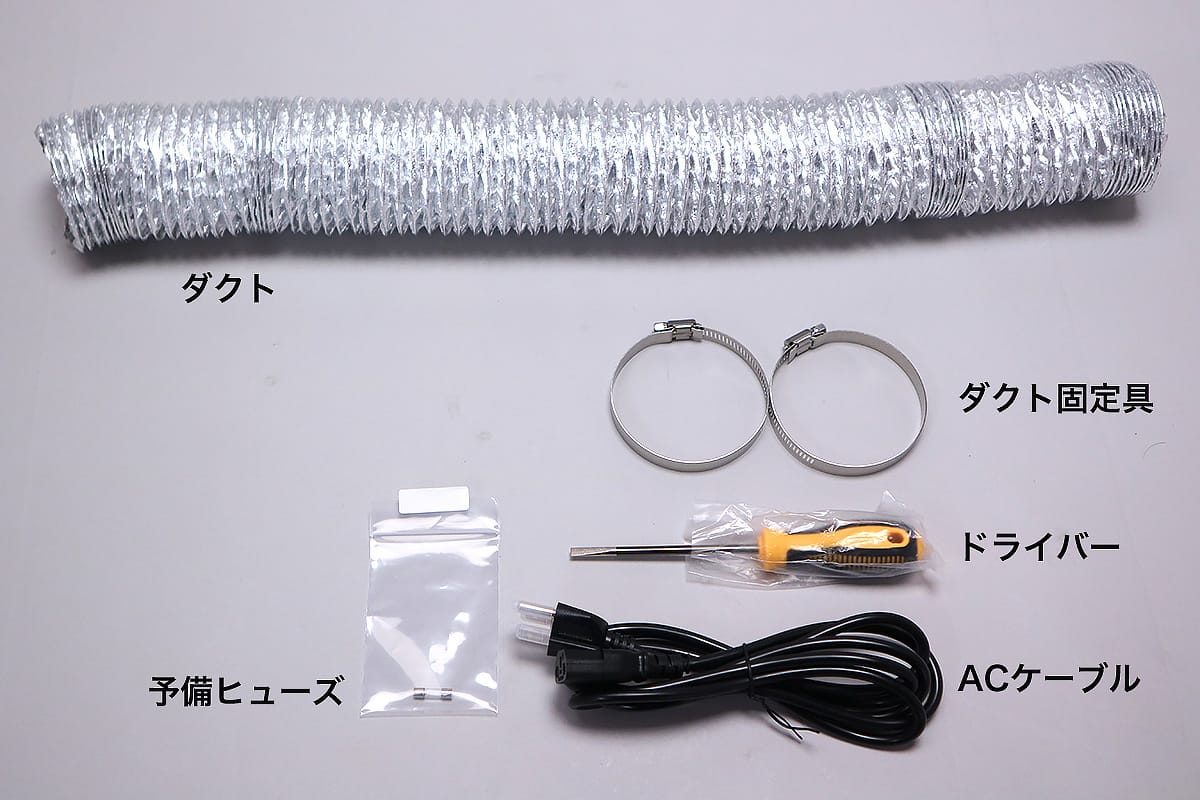
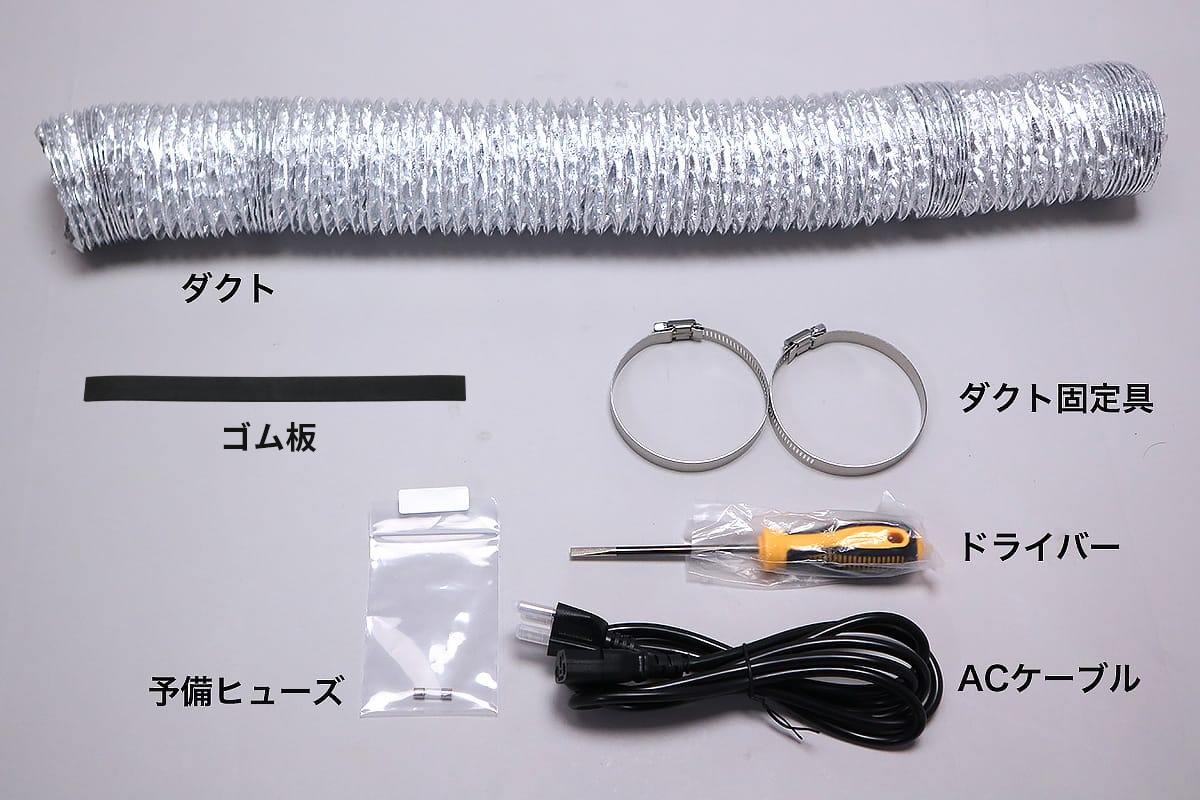
Update particle filter

Changed region(s): [[0.0617, 0.4688, 0.4008, 0.5625]]

diff --git a/JP/Etcher_Laser/manual/particle_filter.md b/JP/Etcher_Laser/manual/particle_filter.md
@@ -12,7 +12,10 @@
 
 <img src="./images/Particle_Filter_6.jpg">
 
-ダクト固定具をダクトに取り付け、Etcher Laser背面の排気口に差し込みます。
+ゴム板をEtcher Laser背面の排気口に取り付けます。
+<img src="./images/Particle_Filter_19.jpg">
+
+ダクト固定具をダクトに取り付け、排気口に差し込みます。
 <img src="./images/Particle_Filter_7.jpg">
 <img src="./images/Particle_Filter_8.jpg">
 
